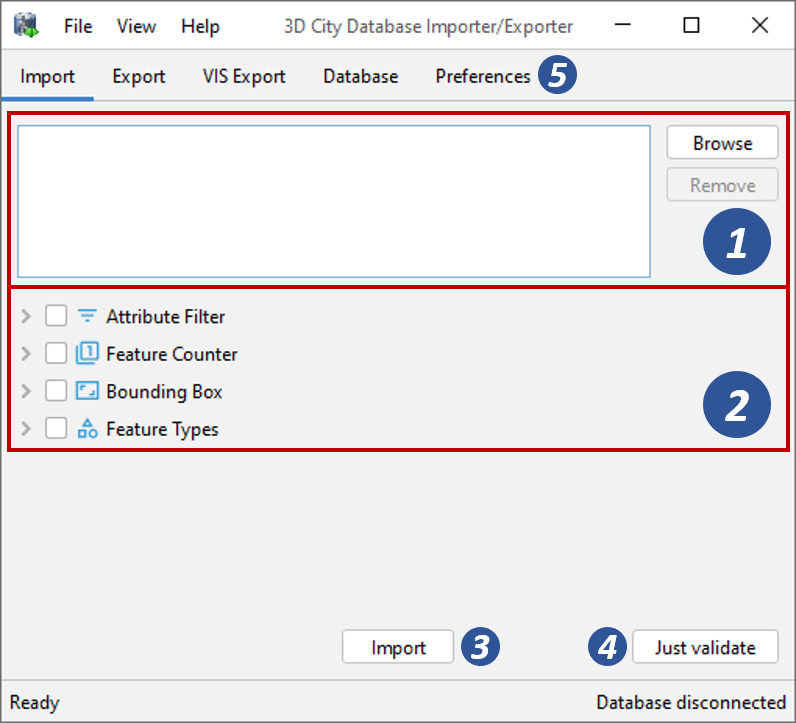
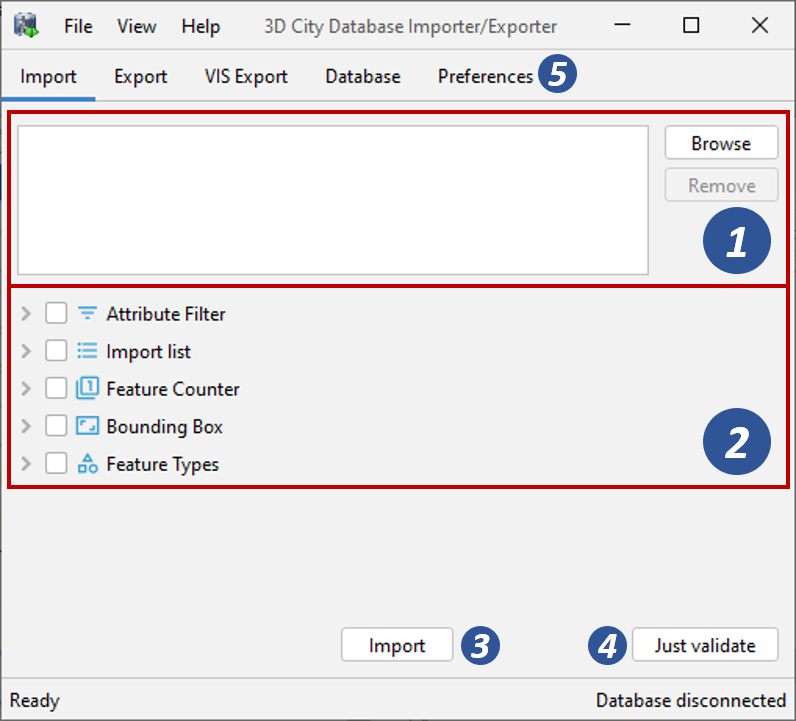
added documentation of the import list filter (GUI)

diff --git a/source/impexp/import-filters/import-list.rst b/source/impexp/import-filters/import-list.rst
@@ -1,0 +1,83 @@
+.. _impexp_import_list_filter:
+
+Import list filter
+------------------
+
+The import list filter allows you to provide a list of city objects that shall be
+imported or skipped during import.
+
+.. figure:: /media/impexp_import_list_filter.png
+   :name: impexp_import_list_filter_fig
+   :align: center
+
+   Import list filter for import operations.
+
+Import lists are simple comma-separated values (CSV) files that contains the
+identifiers of the city objects to be imported or skipped. Each identifier
+must be put on a separate line (row) of the file, and each line may contain additional
+values (columns) separated by a delimiter (typically a single reserved character such
+as comma, semicolon, tab, etc.). The first record may be reserved as header containing
+a list of column names. Usually, every row has the same sequence of columns. If a line
+starts with a predefined comment marker (typically a single reserved character
+such as ``#``), the entire row is ignored and skipped.
+
+Due to their simple structure, import lists can be easily created with external
+tools and processes. The following snippet shows an example of a simple import list
+that can be used with this import filter. It just provides an identifier per row.
+The first line is used as header.
+
+.. code-block:: bash
+   :linenos:
+
+   GMLID
+   ID_0815
+   ID_0816
+   ID_0817
+   ID_0818
+   ...
+
+To use an import list, simply provide the full path to the CSV file. The further input fields of
+the dialog define the structure and content of the CSV file so that the identifiers
+can be correctly parsed from the file and used in the import operation. For this
+purpose, you can specify the delimiter used for separating values in the import list
+(by default, a comma is assumed as delimiter). If the values in the import list are
+quoted, you can also define the character used as quote (typically double quotes
+are used). And the character used as comment marker as well as the encoding of
+the import list can be specified.
+
+Use the *Preview* button to get a preview of the first few lines of the import list
+when applying the provided options for parsing and interpreting the import list.
+This preview shows the contents of the import list in tabular form and is printed
+to the console window. It is very helpful to adapt and specify the delimiter
+character(s), quoting rules and comment marker. The preview should only show
+the lines containing identifiers, but no header line or comments.
+To identify the column which holds the identifiers in the file, you can either type
+in the *Column name* in case the import list uses a header. Alternatively, you can
+simply provide the *Column index* (note that the first column of a row has the
+index 1). In the latter case, you can also specify whether the first record in the
+CSV file shall be skipped because it is a header line.
+
+Finally, define the mode of the import list filter. You can either choose to
+*only import objects from the list* or to *skip objects from the list* instead.
+During import, the identifiers from the import list are matched against the identifiers
+of the city objects in the input file. Based on the defined filter mode, matching
+objects are either imported or skipped.
+
+.. note::
+  You can also use the attribute filter (see :numref:`impexp_import_attribute_filter`)
+  to provide a list of identifiers of city objects to be imported. However, the
+  list of identifiers must be entered manually using the attribute filter, whereas
+  import lists can be generated by software.
+
+**Example use case**
+
+One use case for this filter is when using import logs for the import operation
+(see :numref:`impexp_import_preferences_import_log`).
+Assume you start an import operation on a set of input files and the import fails after
+a certain amount of features. The import log will contain the identifiers of those city
+objects that were successfully imported before the operation failed. Thus, with this filter,
+you can easily resume the import after having fixed the issues that caused the failure.
+Since the import log is a CSV file, you can simply use it as import list and set the
+filter mode to *skip objects from the list*. When starting the import operation with
+these settings again, only those city objects will be imported from the input files that
+have not been processed in the first run.

diff --git a/source/impexp/import-preferences/import-log.rst b/source/impexp/import-preferences/import-log.rst
@@ -66,12 +66,16 @@ the header line. The meaning of the fields is as follows.
 The last line of each import log is a footer that contains metadata
 about whether the import was *successfully finished* or *aborted*.
 
-.. note::
-  If an import process was aborted by the user or due to
+.. hint::
+  If an import process was aborted by the user or fails due to
   errors, the import log file can also be used to automatically
-  delete the features that were imported until the process terminated.
-  Simply use the ``delete`` command of the Importer/Exporter command-line
-  interface for this purpose. You can directly feed CSV files like the import log
-  to this command to delete all features listed in the CSV file (see
-  :numref:`impexp_cli_delete_command` for more information). This way, you can
-  ensure a consistent database state even if an import process fails.
+  **resume** or **rollback** the import operation. Thus, it
+  helps you to ensure a consistent database state.
+
+  - To **resume** the import, you can use the import log as input for the *import list filter*
+    and set the filter to *skip* all city objects from the list (see
+    :numref:`impexp_import_list_filter`). When you re-run the import with these settings,
+    only the city objects that have not been processed in the first run will be imported.
+  - A **rollback** can be achieved by feeding the import log as delete list to
+    the ``delete`` command of the Importer/Exporter command-line interface (see
+    :numref:`impexp_cli_delete_command`).

diff --git a/source/impexp/import.rst b/source/impexp/import.rst
@@ -7,6 +7,7 @@ Import
    :hidden:
 
    import-filters/attribute
+   import-filters/import-list
    import-filters/feature-counter
    import-filters/bbox
    import-filters/feature-type
@@ -51,7 +52,7 @@ The import operation supports the following file formats and extensions:
    * - | **ZIP archives**
      - | \*.zip
 
-The files formats are mainly detected based on the file extension, so please
+The file formats are mainly detected based on the file extension, so please
 make sure to use one of the supported file extensions from :numref:`import_supported_file_formats`.
 ZIP archives are recursively scanned for contained CityGML and CityJSON
 files. Additional files referenced from the CityGML/CityJSON files such as texture images
@@ -76,6 +77,7 @@ city objects that are to be imported from the input files [2]. The
 following filters are offered and discussed in separate sections of this chapter:
 
 - :numref:`%s <impexp_import_attribute_filter>` :ref:`impexp_import_attribute_filter`
+- :numref:`%s <impexp_import_list_filter>` :ref:`impexp_import_list_filter`
 - :numref:`%s <impexp_import_feature_counter_filter>` :ref:`impexp_import_feature_counter_filter`
 - :numref:`%s <impexp_import_bbox_filter>` :ref:`impexp_import_bbox_filter`
 - :numref:`%s <impexp_import_feature_types_filter>` :ref:`impexp_import_feature_types_filter`
